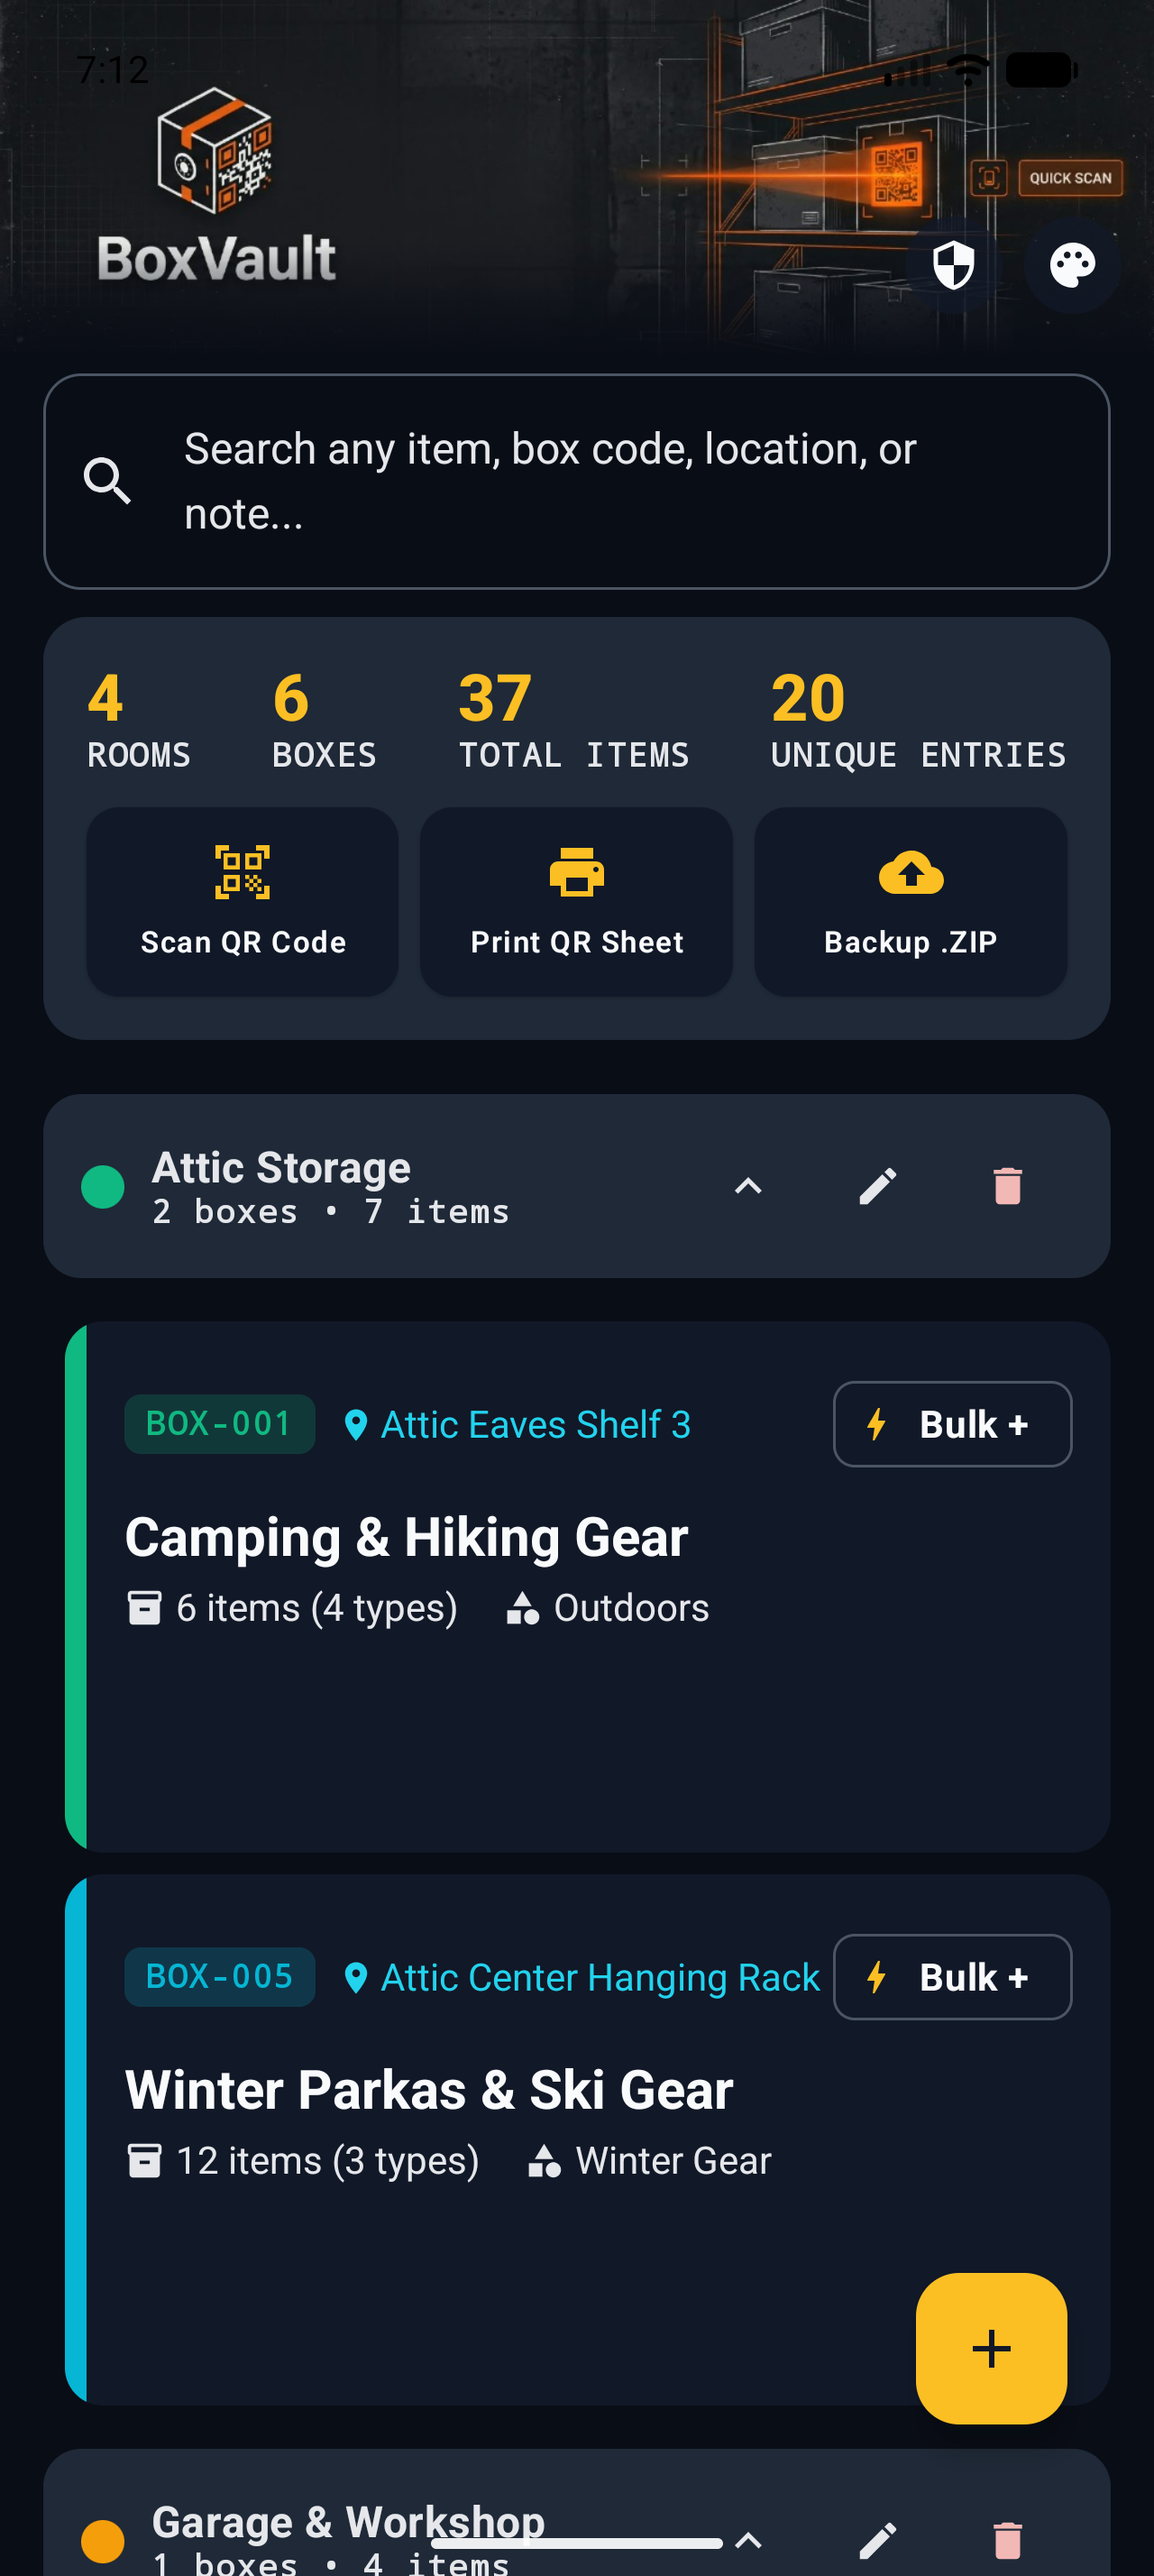
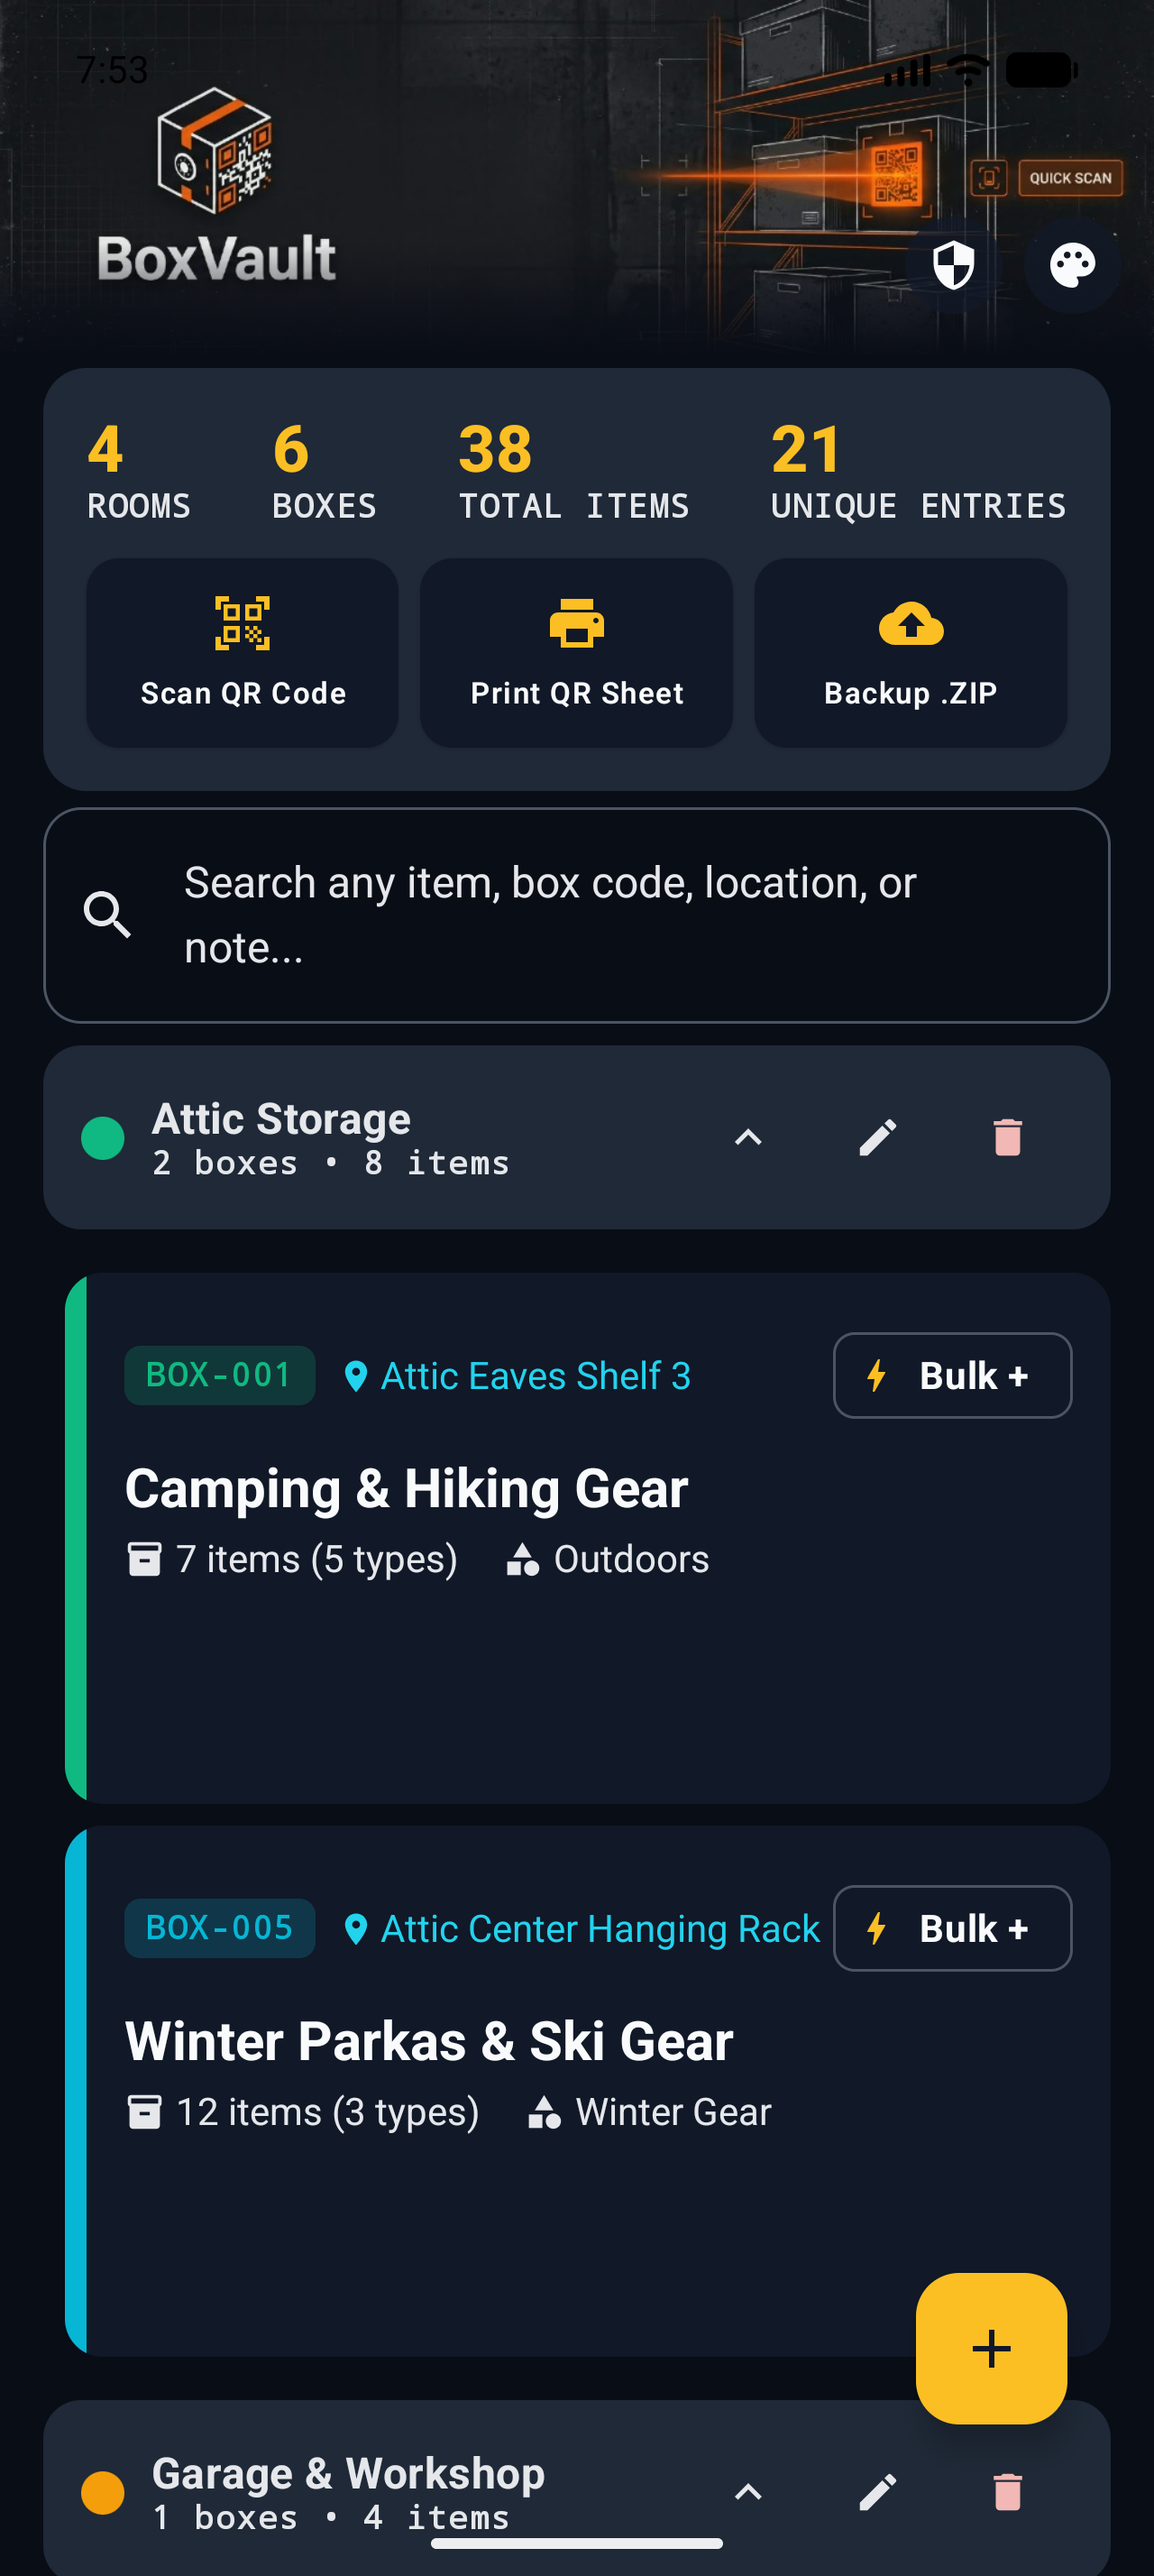
fix(ui): place search bar under summary stats utility hub on dashboard

diff --git a/app/src/main/java/com/boxvault/app/ui/screens/dashboard/DashboardScreen.kt b/app/src/main/java/com/boxvault/app/ui/screens/dashboard/DashboardScreen.kt
@@ -218,13 +218,30 @@ fun DashboardScreen(
                 .fillMaxSize()
                 .padding(bottom = innerPadding.calculateBottomPadding())
         ) {
+            // Summary Stats & Utility Hub (Collapses smoothly when searching)
+            AnimatedVisibility(
+                visible = !uiState.isSearchActive,
+                enter = fadeIn() + expandVertically(),
+                exit = fadeOut() + shrinkVertically()
+            ) {
+                SummaryStatsBanner(
+                    totalBoxes = uiState.totalBoxes,
+                    totalItemQuantity = uiState.totalItemQuantity,
+                    distinctItemCount = uiState.distinctItemCount,
+                    totalRooms = uiState.totalRooms,
+                    onScanQrClick = onNavigateToQrScanner,
+                    onPrintQrSheetClick = onNavigateToPdfGenerator,
+                    onBackupRestoreClick = onNavigateToBackupRestore
+                )
+            }
+
             // Instant Global Search Bar
             OutlinedTextField(
                 value = uiState.searchQuery,
                 onValueChange = viewModel::onSearchQueryChange,
                 modifier = Modifier
                     .fillMaxWidth()
-                    .padding(horizontal = 16.dp, vertical = 6.dp),
+                    .padding(horizontal = 16.dp, vertical = 4.dp),
                 placeholder = {
                     Text(stringResource(R.string.dashboard_search_placeholder))
                 },
@@ -268,10 +285,7 @@ fun DashboardScreen(
                     onCreateBoxClick = onNavigateToCreateBox,
                     onCreateRoomClick = { showCreateRoomDialog = true },
                     onEditRoom = { editingRoom = it },
-                    onDeleteRoom = { deletingRoom = it },
-                    onScanQrClick = onNavigateToQrScanner,
-                    onPrintQrSheetClick = onNavigateToPdfGenerator,
-                    onBackupRestoreClick = onNavigateToBackupRestore
+                    onDeleteRoom = { deletingRoom = it }
                 )
             }
         }
@@ -512,10 +526,7 @@ private fun DashboardHomeContent(
     onCreateBoxClick: () -> Unit,
     onCreateRoomClick: () -> Unit,
     onEditRoom: (RoomEntity) -> Unit,
-    onDeleteRoom: (RoomEntity) -> Unit,
-    onScanQrClick: () -> Unit,
-    onPrintQrSheetClick: () -> Unit,
-    onBackupRestoreClick: () -> Unit
+    onDeleteRoom: (RoomEntity) -> Unit
 ) {
     val collapsedRoomIds = remember { mutableStateMapOf<String, Boolean>() }
     var isUnassignedCollapsed by remember { mutableStateOf(false) }
@@ -525,19 +536,6 @@ private fun DashboardHomeContent(
         contentPadding = PaddingValues(bottom = 96.dp),
         verticalArrangement = Arrangement.spacedBy(12.dp)
     ) {
-        // Summary Stats & Quick Actions Banner
-        item {
-            SummaryStatsBanner(
-                totalBoxes = uiState.totalBoxes,
-                totalItemQuantity = uiState.totalItemQuantity,
-                distinctItemCount = uiState.distinctItemCount,
-                totalRooms = uiState.totalRooms,
-                onScanQrClick = onScanQrClick,
-                onPrintQrSheetClick = onPrintQrSheetClick,
-                onBackupRestoreClick = onBackupRestoreClick
-            )
-        }
-
         val hasAnyBoxes = uiState.allBoxes.isNotEmpty()
 
         if (!hasAnyBoxes) {
@@ -671,7 +669,8 @@ private fun SummaryStatsBanner(
     Card(
         modifier = Modifier
             .fillMaxWidth()
-            .padding(horizontal = 16.dp, vertical = 4.dp),
+            .padding(horizontal = 16.dp)
+            .padding(top = 4.dp, bottom = 2.dp),
         colors = CardDefaults.cardColors(
             containerColor = MaterialTheme.colorScheme.surfaceVariant
         ),
